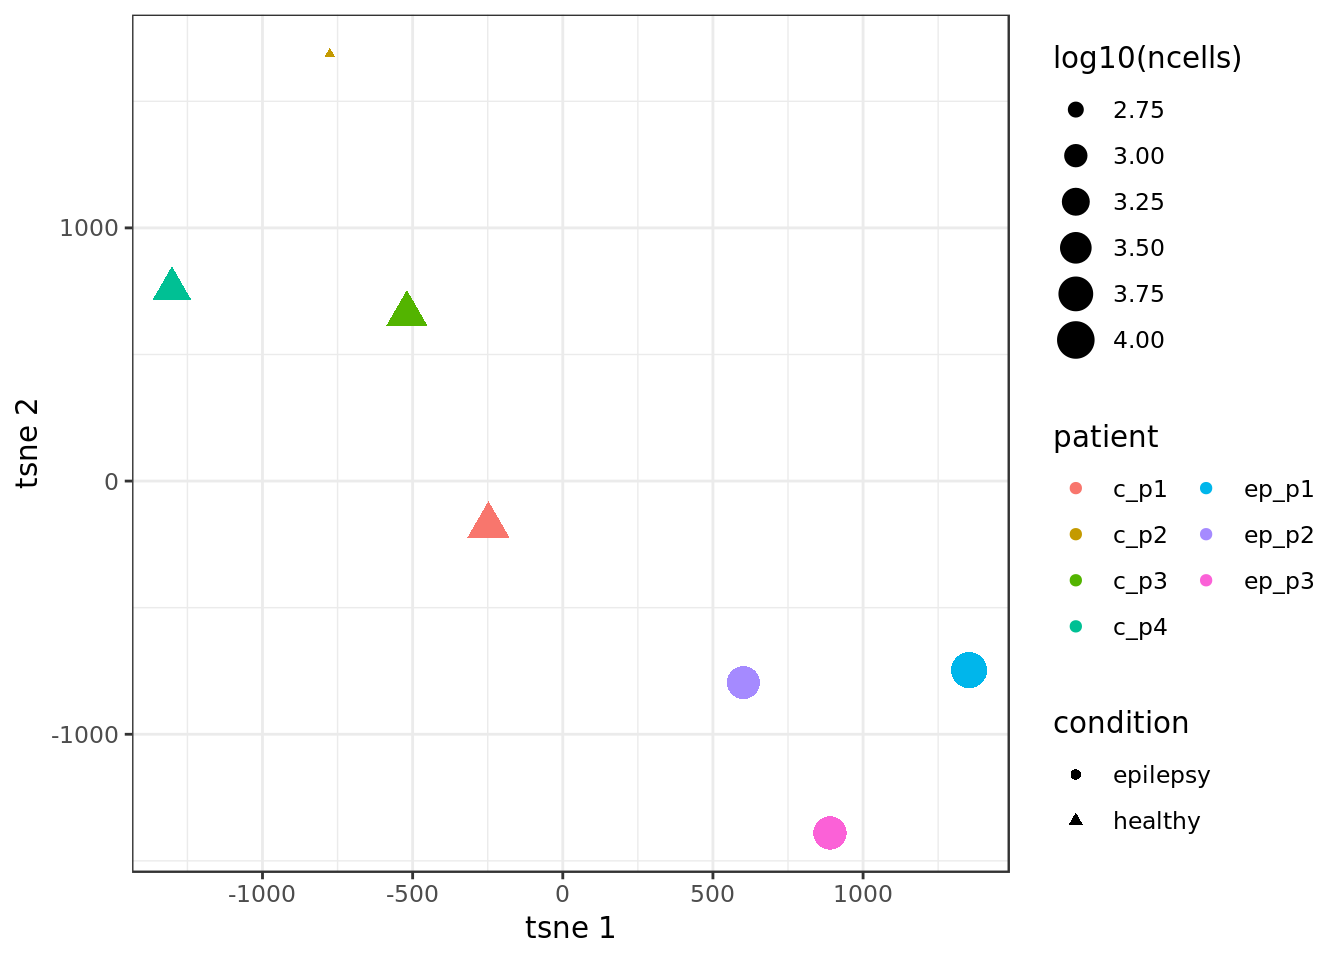
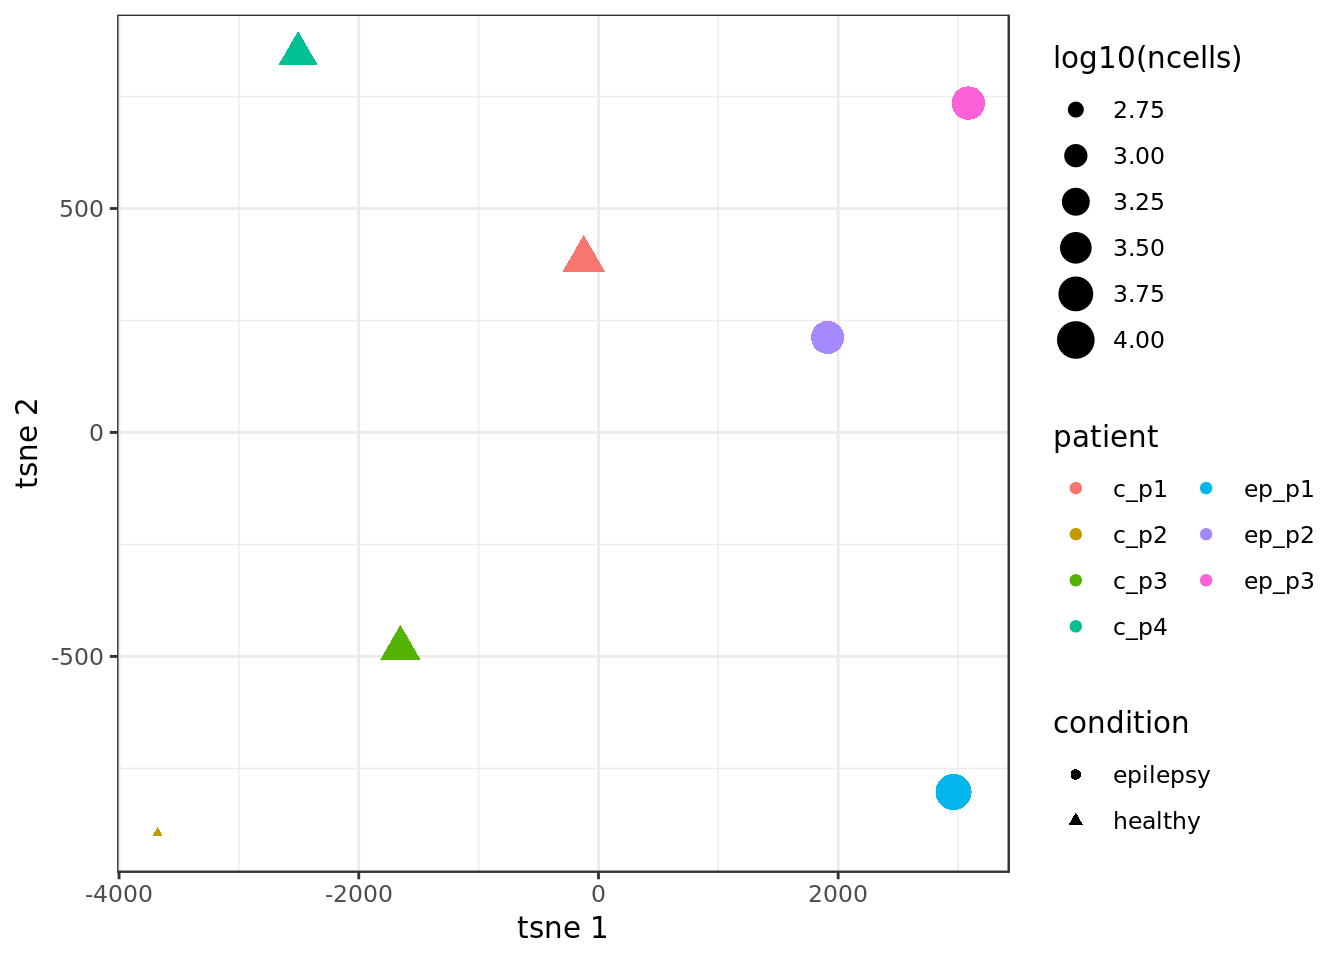
Build site.

diff --git a/docs/transmute_code_eps_2.html b/docs/transmute_code_eps_2.html
@@ -447,7 +447,7 @@ div.section {
 <div class="tab-content">
 <div id="summary" class="tab-pane fade in active">
 <p>
-<strong>Last updated:</strong> 2019-05-29
+<strong>Last updated:</strong> 2019-06-18
 </p>
 <p>
 <strong>Checks:</strong> <span class="glyphicon glyphicon-ok text-success" aria-hidden="true"></span> 6 <span class="glyphicon glyphicon-exclamation-sign text-danger" aria-hidden="true"></span> 0
@@ -526,10 +526,10 @@ This reproducible <a href="http://rmarkdown.rstudio.com">R Markdown</a> analysis
 <div class="panel panel-default">
 <div class="panel-heading">
 <p class="panel-title">
-<a data-toggle="collapse" data-parent="#workflowr-checks" href="#strongRepositoryversionstrongahrefhttpsgithubcomgithubz0rSecretUtilstreee04108ccf48e08dcde1e171c2922ce6413c88830targetblanke04108ca"> <span class="glyphicon glyphicon-ok text-success" aria-hidden="true"></span> <strong>Repository version:</strong> <a href="https://github.com/githubz0r/SecretUtils/tree/e04108ccf48e08dcde1e171c2922ce6413c88830" target="_blank">e04108c</a> </a>
+<a data-toggle="collapse" data-parent="#workflowr-checks" href="#strongRepositoryversionstrongahrefhttpsgithubcomgithubz0rSecretUtilstreec4c861bdd0db133c99f2848917725881d5f2b698targetblankc4c861ba"> <span class="glyphicon glyphicon-ok text-success" aria-hidden="true"></span> <strong>Repository version:</strong> <a href="https://github.com/githubz0r/SecretUtils/tree/c4c861bdd0db133c99f2848917725881d5f2b698" target="_blank">c4c861b</a> </a>
 </p>
 </div>
[2 lines of base64/hex data omitted]
 <div class="panel-body">
 <p>
 Great! You are using Git for version control. Tracking code development and connecting the code version to the results is critical for reproducibility. The version displayed above was the version of the Git repository at the time these results were generated. <br><br> Note that you need to be careful to ensure that all relevant files for the analysis have been committed to Git prior to generating the results (you can use <code>wflow_publish</code> or <code>wflow_git_commit</code>). workflowr only checks the R Markdown file, but you know if there are other scripts or data files that it depends on. Below is the status of the Git repository when the results were generated:
@@ -541,17 +541,12 @@ Ignored files:
 
 Untracked files:
     Untracked:  .Rbuildignore
-    Untracked:  DESCRIPTION
-    Untracked:  NAMESPACE
-    Untracked:  R/graph_stuff.R
     Untracked:  R/hello.R
-    Untracked:  analysis/all.panels.pdf
-    Untracked:  analysis/cell_type_total_tSNE.w.pdf
-    Untracked:  analysis/fraction.all.pdf
-    Untracked:  analysis/jensen_shannon_stuff.Rmd
     Untracked:  analysis/make_scanpy_viktor.R
+    Untracked:  analysis/mouse_alzheimer_annotating.Rmd
+    Untracked:  analysis/mouse_alzheimer_preproc.Rmd
     Untracked:  analysis/paga.Rmd
-    Untracked:  analysis/paga2.Rmd
+    Untracked:  analysis/paga3.Rmd
     Untracked:  analysis/subtype_distances.Rmd
     Untracked:  analysis/subtype_distances2.Rmd
     Untracked:  analysis/subtype_distances4.Rmd
@@ -559,11 +554,21 @@ Untracked files:
     Untracked:  analysis/subtype_distances_revenge.Rmd
     Untracked:  analysis/test_output.Rmd
     Untracked:  analysis/transmute_peters_code.Rmd
+    Untracked:  analysis/ulcerative_collitis_preproc.Rmd
+    Untracked:  docs/figure/paga.Rmd/
     Untracked:  man/
 
 Unstaged changes:
+    Modified:   DESCRIPTION
+    Modified:   R/asdf.R
+    Modified:   analysis/correlation_stuff.Rmd
+    Modified:   analysis/jensen_shannon_stuff.Rmd
+    Modified:   analysis/misc_metrics.Rmd
+    Modified:   analysis/mouse_alzheimer_analysis.Rmd
+    Modified:   analysis/paga2.Rmd
     Modified:   analysis/subtype_distances3.Rmd
     Modified:   analysis/transmute_code_eps.Rmd
+    Modified:   analysis/visualizations.Rmd
 
 </code></pre>
 <p>
@@ -602,6 +607,40 @@ Message
 </tr>
 </thead>
 <tbody>
+<tr>
+<td>
+Rmd
+</td>
+<td>
+<a href="https://github.com/githubz0r/SecretUtils/blob/c4c861bdd0db133c99f2848917725881d5f2b698/analysis/transmute_code_eps_2.Rmd" target="_blank">c4c861b</a>
+</td>
+<td>
+githubz0r
+</td>
+<td>
+2019-06-18
+</td>
+<td>
+adapting functions
+</td>
+</tr>
+<tr>
+<td>
+html
+</td>
+<td>
+<a href="https://rawcdn.githack.com/githubz0r/SecretUtils/e9a9541e6e21f057fa66c0fbaaf111cc417ae03e/docs/transmute_code_eps_2.html" target="_blank">e9a9541</a>
+</td>
+<td>
+githubz0r
+</td>
+<td>
+2019-05-29
+</td>
+<td>
+Build site.
+</td>
+</tr>
 <tr>
 <td>
 Rmd
@@ -848,10 +887,24 @@ Attaching package: &#39;tidyr&#39;</code></pre>
     expand</code></pre>
 <pre class="r"><code>require(Rtsne)</code></pre>
 <pre><code>Loading required package: Rtsne</code></pre>
-<pre class="r"><code>source(&#39;/home/larsc/SecretUtils/R/asdf.R&#39;)
-source(&#39;/home/larsc/SecretUtils/R/peter_code_utils.R&#39;)
+<pre class="r"><code>devtools::load_all(&#39;/home/larsc/SecretUtils&#39;)</code></pre>
+<pre><code>Loading SecretUtils</code></pre>
+<pre><code>Loading required package: magrittr</code></pre>
+<pre><code>
+Attaching package: &#39;magrittr&#39;</code></pre>
+<pre><code>The following object is masked from &#39;package:tidyr&#39;:
 
-con &lt;- readRDS(file.path(&#39;/home/larsc/data/10x_preproced_graphed.rds&#39;))
+    extract</code></pre>
+<pre><code>Loading required package: reshape2</code></pre>
+<pre><code>
+Attaching package: &#39;reshape2&#39;</code></pre>
+<pre><code>The following object is masked from &#39;package:tidyr&#39;:
+
+    smiths</code></pre>
+<pre><code>The following objects are masked from &#39;package:data.table&#39;:
+
+    dcast, melt</code></pre>
+<pre class="r"><code>con &lt;- readRDS(file.path(&#39;/home/larsc/data/10x_preproced_graphed.rds&#39;))
 con &lt;- Conos$new(con)
 annot &lt;- readRDS(file.path(&#39;/home/demharters/R/projects/UPF9_14_17_19_22_23_24_32_33/metadata_10x_final.rds&#39;))
 fraction_palette_eps &lt;- c(epilepsy=&#39;hotpink&#39;, healthy=&#39;seagreen&#39;) </code></pre>
@@ -947,6 +1000,17 @@ Date
 <tbody>
 <tr>
 <td>
+<a href="https://github.com/githubz0r/SecretUtils/blob/e9a9541e6e21f057fa66c0fbaaf111cc417ae03e/docs/figure/transmute_code_eps_2.Rmd/unnamed-chunk-4-1.png" target="_blank">e9a9541</a>
+</td>
+<td>
+githubz0r
+</td>
+<td>
+2019-05-29
+</td>
+</tr>
+<tr>
+<td>
 <a href="https://github.com/githubz0r/SecretUtils/blob/3d76016cdb31f43cb4298d14fac3f9c4e0755021/docs/figure/transmute_code_eps_2.Rmd/unnamed-chunk-4-1.png" target="_blank">3d76016</a>
 </td>
 <td>
@@ -1030,6 +1094,17 @@ Date
 <tbody>
 <tr>
 <td>
+<a href="https://github.com/githubz0r/SecretUtils/blob/e9a9541e6e21f057fa66c0fbaaf111cc417ae03e/docs/figure/transmute_code_eps_2.Rmd/unnamed-chunk-5-1.png" target="_blank">e9a9541</a>
+</td>
+<td>
+githubz0r
+</td>
+<td>
+2019-05-29
+</td>
+</tr>
+<tr>
+<td>
 <a href="https://github.com/githubz0r/SecretUtils/blob/3d76016cdb31f43cb4298d14fac3f9c4e0755021/docs/figure/transmute_code_eps_2.Rmd/unnamed-chunk-5-1.png" target="_blank">3d76016</a>
 </td>
 <td>
@@ -1075,14 +1150,120 @@ c_p3  0.0827164
 c_p4  0.0000000</code></pre>
 <p>Condition distance distribution</p>
 <pre class="r"><code>ConditionDistanceDensity(sub_dist_mat, annot$sample, annot$subtype, annot$sample, annot2$cellid, annot$condition,
-                         notch=TRUE, fraction.palette = fraction_palette_eps)</code></pre>
-<pre><code>notch went outside hinges. Try setting notch=FALSE.
-notch went outside hinges. Try setting notch=FALSE.</code></pre>
+                         notch=F, fraction.palette = fraction_palette_eps)</code></pre>
 <p><img src="figure/transmute_code_eps_2.Rmd/unnamed-chunk-7-1.png" width="672" style="display: block; margin: auto;" /></p>
+<p>
+<button type="button" class="btn btn-default btn-xs btn-workflowr btn-workflowr-fig" data-toggle="collapse" data-target="#fig-unnamed-chunk-7-1">
+Past versions of unnamed-chunk-7-1.png
+</button>
+</p>
+<div id="fig-unnamed-chunk-7-1" class="collapse">
+<div class="table-responsive">
+<table class="table table-condensed table-hover">
+<thead>
+<tr>
+<th>
+Version
+</th>
+<th>
+Author
+</th>
+<th>
+Date
+</th>
+</tr>
+</thead>
+<tbody>
+<tr>
+<td>
+<a href="https://github.com/githubz0r/SecretUtils/blob/e9a9541e6e21f057fa66c0fbaaf111cc417ae03e/docs/figure/transmute_code_eps_2.Rmd/unnamed-chunk-7-1.png" target="_blank">e9a9541</a>
+</td>
+<td>
+githubz0r
+</td>
+<td>
+2019-05-29
+</td>
+</tr>
+</tbody>
+</table>
+</div>
+</div>
 <p>Distribution distances per cell type (using ctdm so must be unweighted)</p>
+<pre class="r"><code>devtools::load_all(&#39;/home/larsc/SecretUtils&#39;)</code></pre>
+<pre><code>Loading SecretUtils</code></pre>
 <pre class="r"><code>min_cells=0
-PlotCellTypeDists(sub_dist_mat, min_cells)</code></pre>
+SecretUtils::PlotCellTypeDists(sub_dist_mat, min_cells, annot$sample, annot$condition)</code></pre>
 <p><img src="figure/transmute_code_eps_2.Rmd/unnamed-chunk-8-1.png" width="672" style="display: block; margin: auto;" /></p>
+<p>
+<button type="button" class="btn btn-default btn-xs btn-workflowr btn-workflowr-fig" data-toggle="collapse" data-target="#fig-unnamed-chunk-8-1">
+Past versions of unnamed-chunk-8-1.png
+</button>
+</p>
+<div id="fig-unnamed-chunk-8-1" class="collapse">
+<div class="table-responsive">
+<table class="table table-condensed table-hover">
+<thead>
+<tr>
+<th>
+Version
+</th>
+<th>
+Author
+</th>
+<th>
+Date
+</th>
+</tr>
+</thead>
+<tbody>
+<tr>
+<td>
+<a href="https://github.com/githubz0r/SecretUtils/blob/e9a9541e6e21f057fa66c0fbaaf111cc417ae03e/docs/figure/transmute_code_eps_2.Rmd/unnamed-chunk-8-1.png" target="_blank">e9a9541</a>
+</td>
+<td>
+githubz0r
+</td>
+<td>
+2019-05-29
+</td>
+</tr>
+</tbody>
+</table>
+</div>
+</div>
+<p>Replacing JS distance matrix with paga metric Initialize some variables</p>
+<pre class="r"><code>annot$subtype_sample &lt;- paste0(annot$subtype, &#39;-&#39;, annot$sample)
+membership_vec_subsamp &lt;- as.numeric(factor(annot$subtype_sample))
+membership_vec_sample &lt;- as.numeric(factor(annot$sample))
+raw_cm &lt;- RbindRaw(con)
+unaligned_graph &lt;- SecretUtils::GenerateUnalignedAdj(raw_cm, annot2$cellid)</code></pre>
+<pre><code>34198 cells, 33694 genes; normalizing ... using plain model winsorizing ... log scale ... done.
+calculating variance fit ... using gam 1029 overdispersed genes ... 1029 persisting ... done.
+running PCA using 3000 OD genes .... done</code></pre>
+<pre class="r"><code>connectivities &lt;- GetPagaMatrix(unaligned_graph, membership_vec_sample, scale=F)
+mem_levels &lt;- factor(annot$subtype_sample) %&gt;% levels
+subtype_order &lt;- gsub(&quot;-.*&quot;,&quot;&quot;, mem_levels)
+sample_order &lt;- gsub(&quot;.*-&quot;,&quot;&quot;, mem_levels)
+sample_order2 &lt;- factor(annot$sample) %&gt;% levels # sometimes care must be taken with special characters in the names</code></pre>
+<pre class="r"><code>connectivities &lt;- GetPagaMatrix(unaligned_graph, membership_vec_sample, scale=F) %&gt;% as.matrix
+rownames(connectivities) &lt;- sample_order %&gt;% unique; colnames(connectivities) &lt;- sample_order %&gt;% unique
+SecretUtils::PlotDistanceMatRed(log(connectivities), annot2$sample, annot2$subtype, annot2$sample, 
+                   annot2$cellid, annot2$condition, perplexity=2, max_iter=1e5, by.subtype=F)</code></pre>
+<p><img src="figure/transmute_code_eps_2.Rmd/unnamed-chunk-10-1.png" width="672" style="display: block; margin: auto;" /></p>
+<pre class="r"><code>SecretUtils::ConditionDistanceDensity(connectivities, annot$sample, annot$subtype, annot$sample, annot2$cellid, annot$condition,
+                         notch=F, fraction.palette = fraction_palette_eps, by.subtype=F)</code></pre>
+<p><img src="figure/transmute_code_eps_2.Rmd/unnamed-chunk-11-1.png" width="672" style="display: block; margin: auto;" /></p>
+<p>Between conditions intersample distance per subtype, log transformed. Some -Inf because of 0 values being logged</p>
+<pre class="r"><code>connectivities &lt;- GetPagaMatrix(unaligned_graph, membership_vec_subsamp, scale=F) %&gt;% as.matrix
+sub_paga_mats &lt;- SecretUtils::SubsetPAGABySubtype(connectivities, mem_levels, sample_order, subtype_order)
+# pad the matrices to have same dim
+sub_paga_mats_padded &lt;- sub_paga_mats %&gt;% lapply(PadMatZeroes, sample_order %&gt;% unique) %&gt;% lapply(as.matrix)
+
+SecretUtils::PlotCellTypeDists(sub_paga_mats_padded %&gt;% lapply(log), min_cells, annot$sample, annot$condition, cell.count.attr=F)</code></pre>
+<pre><code>Warning: Removed 93 rows containing non-finite values (stat_boxplot).</code></pre>
+<p><img src="figure/transmute_code_eps_2.Rmd/unnamed-chunk-12-1.png" width="672" style="display: block; margin: auto;" /></p>
+<pre class="r"><code>between_conds_df &lt;- SecretUtils::PlotCellTypeDists(sub_paga_mats_padded %&gt;% lapply(log), min_cells, annot$sample, annot$condition, plot=F, cell.count.attr=F)</code></pre>
 <br>
 <p>
 <button type="button" class="btn btn-default btn-workflowr btn-workflowr-sessioninfo" data-toggle="collapse" data-target="#workflowr-sessioninfo" style="display: block;">
@@ -1112,37 +1293,38 @@ attached base packages:
 [8] base     
 
 other attached packages:
- [1] Rtsne_0.14        tidyr_0.8.3       abind_1.4-5      
- [4] dplyr_0.8.0.1     cowplot_0.9.4     pagoda2_0.1.0    
- [7] data.table_1.12.2 ggplot2_3.1.1     conos_1.0.0      
-[10] igraph_1.2.4      Matrix_1.2-17    
+ [1] SecretUtils_0.1.0 reshape2_1.4.3    magrittr_1.5     
+ [4] Rtsne_0.15        tidyr_0.8.3       abind_1.4-5      
+ [7] dplyr_0.8.1       cowplot_0.9.4     pagoda2_0.1.0    
+[10] data.table_1.12.2 ggplot2_3.1.1     conos_1.0.0      
+[13] igraph_1.2.4      Matrix_1.2-17    
 
 loaded via a namespace (and not attached):
- [1] viridis_0.5.1       viridisLite_0.3.0   shiny_1.3.1        
- [4] assertthat_0.2.1    triebeard_0.3.0     urltools_1.7.3     
- [7] stats4_3.5.3        yaml_2.2.0          robustbase_0.93-4  
-[10] pillar_1.3.1        backports_1.1.4     lattice_0.20-38    
-[13] glue_1.3.1          digest_0.6.18       promises_1.0.1     
-[16] colorspace_1.4-1    htmltools_0.3.6     httpuv_1.5.1       
-[19] plyr_1.8.4          pkgconfig_2.0.2     purrr_0.3.2        
-[22] xtable_1.8-4        mvtnorm_1.0-10      scales_1.0.0       
-[25] brew_1.0-6          whisker_0.3-2       later_0.8.0        
-[28] git2r_0.25.2        tibble_2.1.1        withr_2.1.2        
-[31] nnet_7.3-12         lazyeval_0.2.2      magrittr_1.5       
-[34] crayon_1.3.4        mime_0.6            mclust_5.4.3       
-[37] evaluate_0.13       fs_1.2.7            MASS_7.3-51.3      
-[40] class_7.3-15        Rook_1.1-1          tools_3.5.3        
-[43] trimcluster_0.1-2.1 stringr_1.4.0       kernlab_0.9-27     
-[46] munsell_0.5.0       cluster_2.0.8       irlba_2.3.3        
-[49] fpc_2.1-11.1        compiler_3.5.3      rlang_0.3.4        
-[52] grid_3.5.3          rjson_0.2.20        labeling_0.3       
-[55] base64enc_0.1-3     rmarkdown_1.12      gtable_0.3.0       
-[58] flexmix_2.3-15      reshape2_1.4.3      R6_2.4.0           
-[61] gridExtra_2.3       knitr_1.22          prabclus_2.2-7     
-[64] workflowr_1.3.0     rprojroot_1.3-2     dendextend_1.10.0  
-[67] modeltools_0.2-22   stringi_1.4.3       Rcpp_1.0.1         
-[70] DEoptimR_1.0-8      tidyselect_0.2.5    xfun_0.6           
-[73] diptest_0.75-7     </code></pre>
+ [1] viridis_0.5.1     pkgload_1.0.2     splines_3.5.3    
+ [4] viridisLite_0.3.0 shiny_1.3.2       assertthat_0.2.1 
+ [7] triebeard_0.3.0   urltools_1.7.3    yaml_2.2.0       
+[10] remotes_2.0.4     sessioninfo_1.1.1 pillar_1.4.1     
+[13] backports_1.1.4   lattice_0.20-38   glue_1.3.1       
+[16] digest_0.6.18     promises_1.0.1    colorspace_1.4-1 
+[19] htmltools_0.3.6   httpuv_1.5.1      plyr_1.8.4       
+[22] pkgconfig_2.0.2   devtools_2.0.2    purrr_0.3.2      
+[25] xtable_1.8-4      scales_1.0.0      processx_3.3.1   
+[28] brew_1.0-6        whisker_0.3-2     later_0.8.0      
+[31] git2r_0.25.2      tibble_2.1.2      mgcv_1.8-28      
+[34] usethis_1.5.0     withr_2.1.2       lazyeval_0.2.2   
+[37] cli_1.1.0         crayon_1.3.4      mime_0.6         
+[40] memoise_1.1.0     evaluate_0.13     ps_1.3.0         
+[43] fs_1.3.1          nlme_3.1-139      MASS_7.3-51.3    
+[46] pkgbuild_1.0.3    Rook_1.1-1        tools_3.5.3      
+[49] prettyunits_1.0.2 stringr_1.4.0     munsell_0.5.0    
+[52] irlba_2.3.3       callr_3.2.0       compiler_3.5.3   
+[55] rlang_0.3.4       grid_3.5.3        rstudioapi_0.10  
+[58] rjson_0.2.20      labeling_0.3      base64enc_0.1-3  
+[61] rmarkdown_1.12    testthat_2.1.1    gtable_0.3.0     
+[64] R6_2.4.0          gridExtra_2.3     knitr_1.22       
+[67] workflowr_1.3.0   rprojroot_1.3-2   dendextend_1.12.0
+[70] desc_1.2.0        stringi_1.4.3     Rcpp_1.0.1       
+[73] tidyselect_0.2.5  xfun_0.6         </code></pre>
 </div>
 
 
